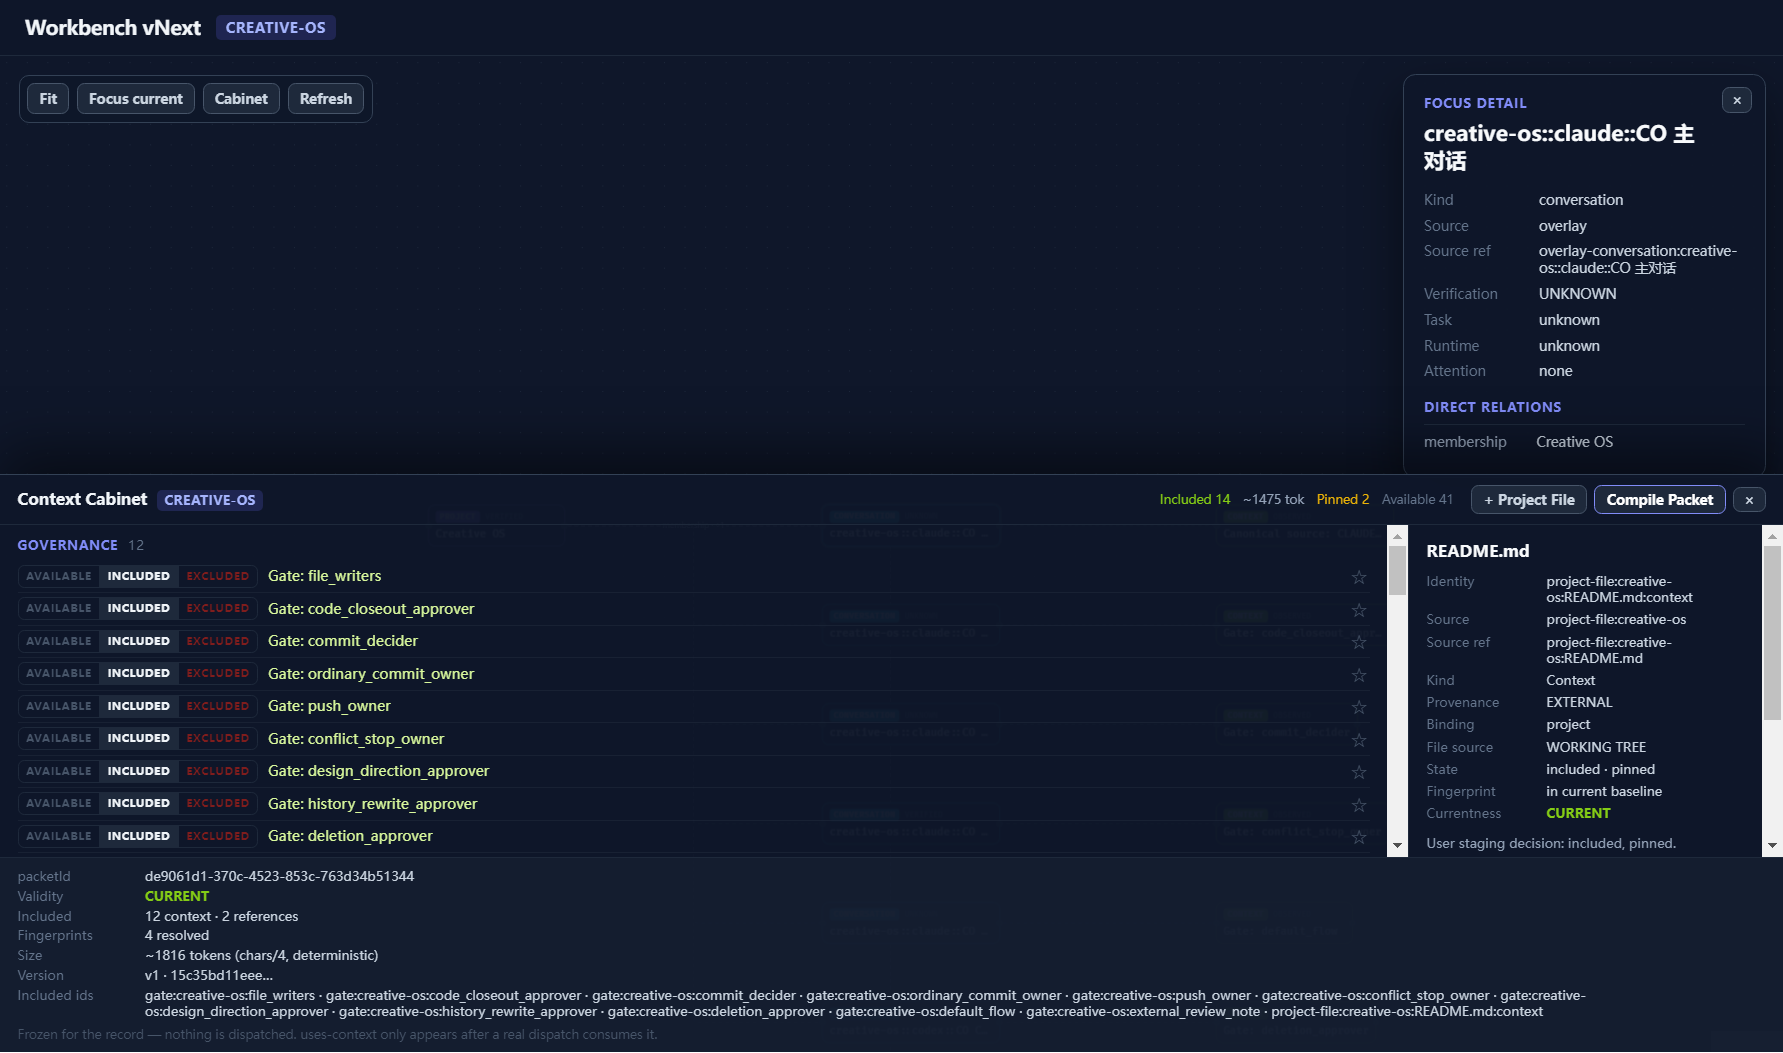
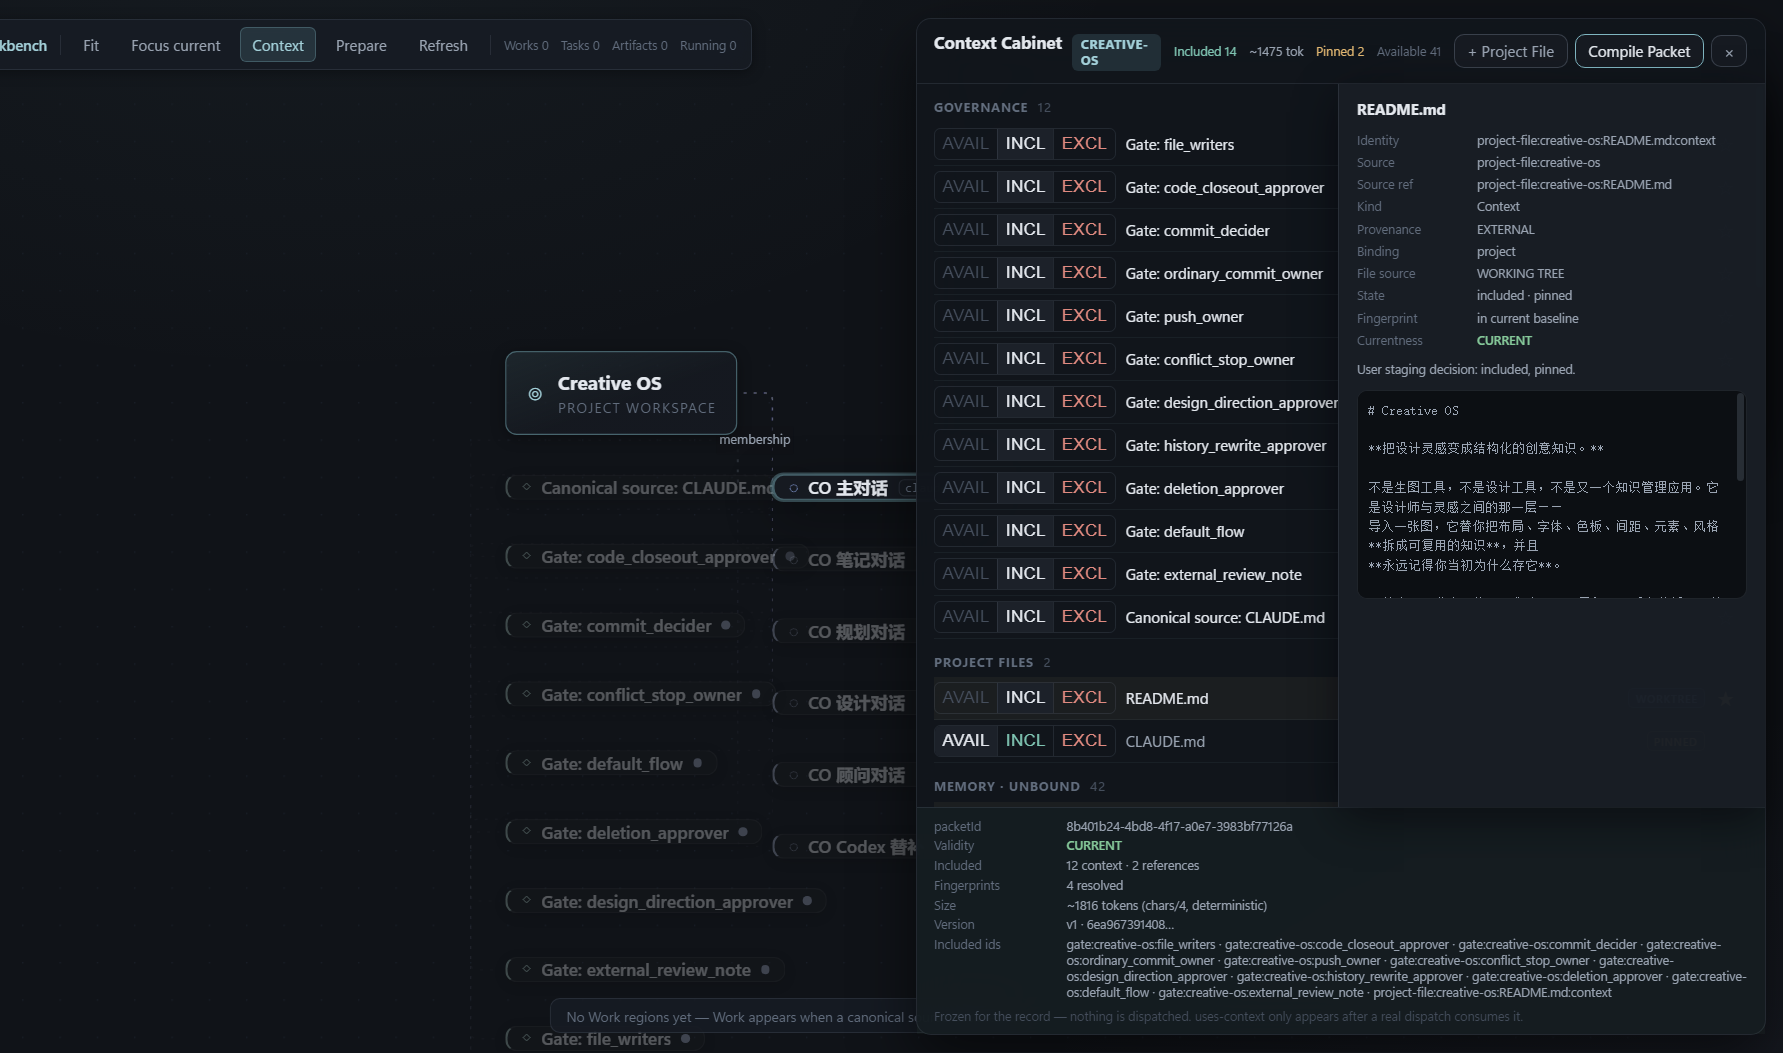
fix: restore e2e contracts after workspace rebuild

diff --git a/src/renderer-vnext/src/components/canvas/nodes.tsx b/src/renderer-vnext/src/components/canvas/nodes.tsx
@@ -34,7 +34,7 @@ function useCommon(node: NodeProps) {
 const ProjectNode = memo((props: NodeProps) => {
   const { data, selected } = useCommon(props);
   return (
-    <div className={`wb-node wb-node-project${selected ? ' is-focused' : ''}`} data-id={data.semantic.id}>
+    <div className={`wb-node wb-node-project${selected ? ' is-focused' : ''}`} data-id={data.semantic.id} data-family={data.family}>
       <Handle type="target" position={Position.Left} isConnectable={false} className="wb-handle" />
       <div className="wb-project-sigil" aria-hidden="true">◎</div>
       <div className="wb-project-body">
@@ -52,7 +52,7 @@ const TaskNode = memo((props: NodeProps) => {
   const semantic = data.semantic as Extract<WorkGraphNodeData['semantic'], { kind: 'task' }>;
   const stateTone = semantic.taskState === 'active' ? 'is-green' : 'is-muted';
   return (
-    <div className={`wb-node wb-node-task${selected ? ' is-focused' : ''}`} data-id={data.semantic.id}>
+    <div className={`wb-node wb-node-task${selected ? ' is-focused' : ''}`} data-id={data.semantic.id} data-family={data.family}>
       <Handle type="target" position={Position.Left} isConnectable={false} className="wb-handle" />
       <div className="wb-task-head">
         <span className="wb-task-sigil" aria-hidden="true">◈</span>
@@ -97,7 +97,7 @@ function makeChipNode(displayName: string, toneClass: string, sigil: string, ext
   const Component = memo((props: NodeProps) => {
     const { data, selected } = useCommon(props);
     return (
-      <div className={`wb-node wb-chip-node ${toneClass}${selected ? ' is-focused' : ''}`} data-id={data.semantic.id}>
+      <div className={`wb-node wb-chip-node ${toneClass}${selected ? ' is-focused' : ''}`} data-id={data.semantic.id} data-family={data.family}>
         <Handle type="target" position={Position.Left} isConnectable={false} className="wb-handle" />
         <span className="wb-chip-sigil" aria-hidden="true">{sigil}</span>
         <span className="wb-node-label" title={data.label}>{data.label}</span>
@@ -128,7 +128,7 @@ const ConversationNode = memo((props: NodeProps) => {
   // is the human-meaningful part; platform becomes the small prefix chip.
   const role = data.label.includes('::') ? data.label.split('::').pop()! : data.label;
   return (
-    <div className={`wb-node wb-chip-node wb-tone-conversation${selected ? ' is-focused' : ''}`} data-id={data.semantic.id}>
+    <div className={`wb-node wb-chip-node wb-tone-conversation${selected ? ' is-focused' : ''}`} data-id={data.semantic.id} data-family={data.family}>
       <Handle type="target" position={Position.Left} isConnectable={false} className="wb-handle" />
       <span className="wb-chip-sigil" aria-hidden="true">◌</span>
       <span className="wb-node-label" title={data.label}>{role}</span>
@@ -144,7 +144,7 @@ const ExecutionNode = memo((props: NodeProps) => {
   const { data, selected } = useCommon(props);
   const semantic = data.semantic as Extract<WorkGraphNodeData['semantic'], { kind: 'execution' }>;
   return (
-    <div className={`wb-node wb-node-execution${semantic.live ? ' is-live' : ''}${selected ? ' is-focused' : ''}`} data-id={data.semantic.id}>
+    <div className={`wb-node wb-node-execution${semantic.live ? ' is-live' : ''}${selected ? ' is-focused' : ''}`} data-id={data.semantic.id} data-family={data.family}>
       <Handle type="target" position={Position.Left} isConnectable={false} className="wb-handle" />
       <span className="wb-chip-sigil" aria-hidden="true">▶</span>
       <span className="wb-node-label">{semantic.provider} · {semantic.runtimeState}</span>

diff --git a/e2e/renderer-routing.spec.ts b/e2e/renderer-routing.spec.ts
@@ -14,7 +14,7 @@ test('WB_RENDERER_VNEXT=1 loads the real WorkGraphRevision over preload IPC', as
   const { app, win } = await launchWorkbench(stateDir, fixture.overlayRoot, { WB_RENDERER_VNEXT: '1' });
   try {
     await expect(win.locator('.vnext-app')).toBeVisible();
-    await expect(win.locator('.workgraph-node').first()).toBeVisible();
+    await expect(win.locator('.wb-node').first()).toBeVisible();
     await expect(win.getByRole('button', { name: 'Fit', exact: true })).toBeVisible();
     await expect(win.getByRole('button', { name: 'Focus project', exact: true })).toBeVisible();
     await expect(win.getByRole('button', { name: 'Refresh', exact: true })).toBeVisible();
@@ -37,7 +37,7 @@ test('WB_RENDERER_VNEXT=1 loads the real WorkGraphRevision over preload IPC', as
     console.log(`[vnext-real-graph] ${JSON.stringify(graphReport)}`);
     expect(graphReport).not.toHaveProperty('error');
     await win.screenshot({ path: join(screenshotDir, '01-workgraph-overview.png') });
-    await win.locator('.workgraph-node').first().click();
+    await win.locator('.wb-node').first().click();
     await expect(win.getByRole('complementary', { name: 'Focus Detail' })).toBeVisible();
     await win.screenshot({ path: join(screenshotDir, '02-workgraph-focus.png') });
   } finally {
@@ -76,7 +76,7 @@ test('real attention facts enable the Attention control (TEST FIXTURE screenshot
   const { app, win } = await launchWorkbench(stateDir, fixture.overlayRoot, { WB_RENDERER_VNEXT: '1' });
   try {
     await expect(win.getByRole('button', { name: 'Attention', exact: true })).toBeVisible();
-    await expect(win.locator('.workgraph-node[data-kind="gate"]')).toBeVisible();
+    await expect(win.locator('.wb-node[data-family="gate"]')).toBeVisible();
     await win.locator('body').evaluate((body) => {
       const label = document.createElement('div');
       label.className = 'test-fixture-label';

diff --git a/src/renderer-vnext/src/components/cabinet/ContextCabinet.tsx b/src/renderer-vnext/src/components/cabinet/ContextCabinet.tsx
@@ -590,10 +590,8 @@ export function ContextCabinet({ projectId, selection, onClose }: {
           })}
           {items.length === 0 && !error && <p className="cabinet-empty">No context candidates from the bound sources.</p>}
         </div>
+        {selected && (
         <aside className="cabinet-detail" aria-label="Context detail">
-          {!selected && <p className="cabinet-empty" style={{ opacity: 0.55 }}>Select a context to inspect its identity and source.</p>}
-          {selected && (
-            <>
               <h3>{selected.title}</h3>
               <dl>
                 <dt>Identity</dt><dd>{selected.id}</dd>
@@ -640,9 +638,8 @@ export function ContextCabinet({ projectId, selection, onClose }: {
               {!selected.id.startsWith('memory:') && selected.body && (
                 <pre className="cabinet-preview">{selected.body.slice(0, BODY_PREVIEW_CHARS)}</pre>
               )}
-            </>
-          )}
         </aside>
+        )}
       </div>
       {(packet || packetError) && (
         <footer className="cabinet-packet" role="status" aria-label="Compiled packet">

diff --git a/src/renderer-vnext/src/components/canvas/WorkGraphCanvas.tsx b/src/renderer-vnext/src/components/canvas/WorkGraphCanvas.tsx
@@ -307,7 +307,7 @@ export function WorkGraphCanvas({ revision, onRefresh, navigateRequest, onNaviga
             </button>
             <button type="button" className="wb-tool" onClick={() => void onRefresh()}>Refresh</button>
             {attentionNodes.length > 0 && (
-              <button type="button" className="wb-tool is-attention" onClick={() => void instance?.fitView({ nodes: attentionNodes, padding: 0.9, duration: 280 })}>
+              <button type="button" className="wb-tool is-attention" aria-label="Attention" onClick={() => void instance?.fitView({ nodes: attentionNodes, padding: 0.9, duration: 280 })}>
                 ⚑ {attentionNodes.length}
               </button>
             )}

diff --git a/e2e/context-cabinet-real.spec.ts b/e2e/context-cabinet-real.spec.ts
@@ -65,7 +65,7 @@ test('headed real overlay stages Context in the vNext Context Cabinet', async ()
     expect(baselineHash).toBeTruthy();
 
     // Open the Cabinet from the Canvas and wait for real source groups.
-    await win.getByRole('button', { name: 'Cabinet', exact: true }).click();
+    await win.getByRole('button', { name: 'Context', exact: true }).click();
     const cabinet = win.getByRole('region', { name: 'Context Cabinet' });
     await expect(cabinet).toBeVisible();
     await expect(cabinet.locator('.cabinet-group h3', { hasText: 'Governance' })).toBeVisible();

diff --git a/e2e/dispatch-prepare-real.spec.ts b/e2e/dispatch-prepare-real.spec.ts
@@ -103,7 +103,7 @@ test('headed real canonical Task prepares an explicit dispatch and stops before 
     // Canonical manifest declares no lifecycle: the honest state is UNKNOWN.
     await expect(focusDetail).toContainText('unknown');
 
-    await win.getByRole('button', { name: 'Dispatch', exact: true }).click();
+    await win.getByRole('button', { name: 'Prepare', exact: true }).click();
     const surface = win.getByRole('region', { name: 'Dispatch' });
     await expect(surface).toBeVisible();
     // Exact lineage entered the draft — never re-inferred.
